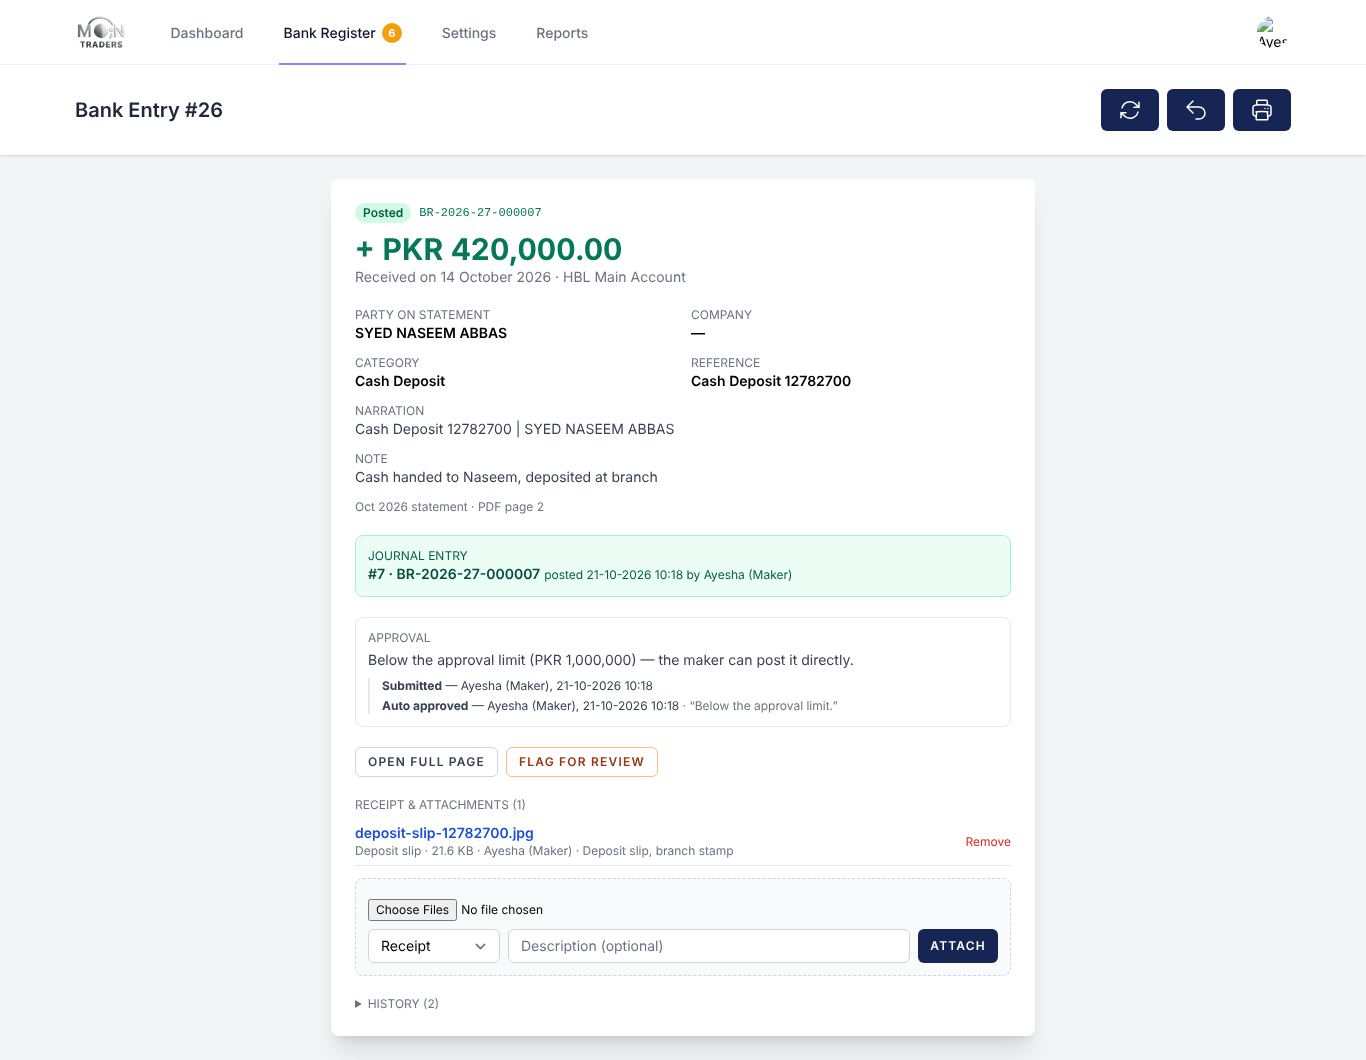
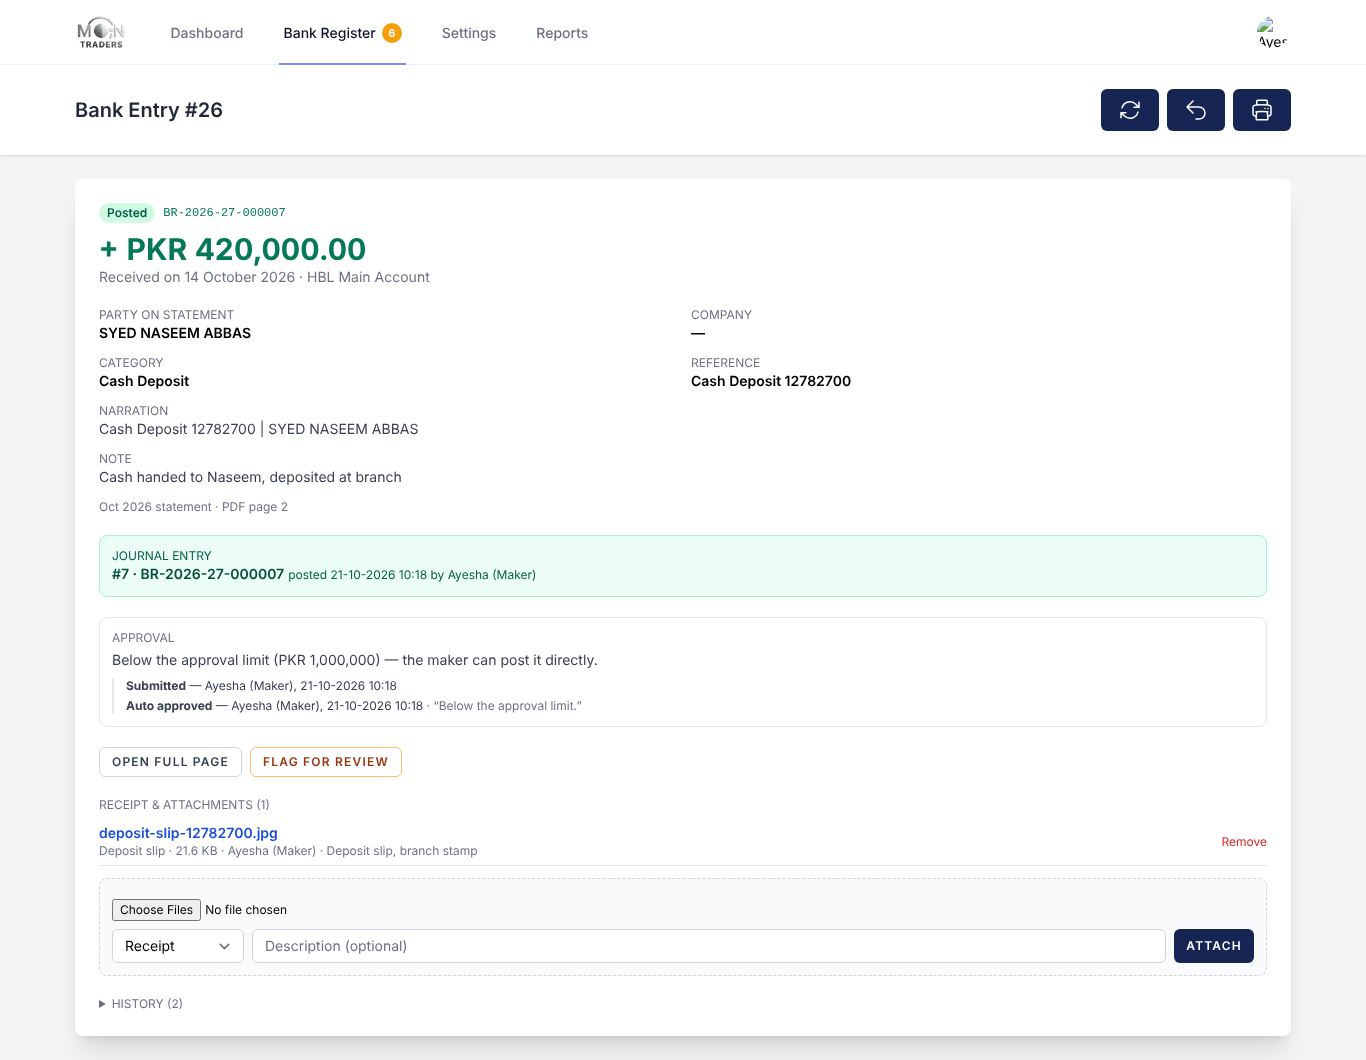
Bank Register: use max-w-7xl on every page and refresh screenshots
Claude-Session: https://claude.ai/code/session_01QTW2oYgXax1zGArLhvRqe5

diff --git a/resources/views/reports/bank/index.blade.php b/resources/views/reports/bank/index.blade.php
@@ -3,7 +3,7 @@
         <x-page-header title="Bank Register Reports" :showSearch="false" :showRefresh="false" backRoute="reports.index" />
     </x-slot>
     <div class="py-6">
-        <div class="max-w-5xl mx-auto sm:px-6 lg:px-8">
+        <div class="max-w-7xl mx-auto sm:px-6 lg:px-8">
             <div class="grid grid-cols-1 md:grid-cols-2 gap-4">
                 @forelse ($reports as $slug => $report)
                     <a href="{{ route('reports.bank.show', $slug) }}" class="block bg-white rounded-lg shadow hover:shadow-lg hover:-translate-y-0.5 transition p-4">

diff --git a/resources/views/bank-statement-entries/edit.blade.php b/resources/views/bank-statement-entries/edit.blade.php
@@ -3,7 +3,7 @@
         <x-page-header title="Classify Bank Entry #{{ $entry->id }}" :showSearch="false" :showRefresh="false" backRoute="bank-statement-entries.index" />
     </x-slot>
     <div class="py-6">
-        <div class="max-w-3xl mx-auto sm:px-6 lg:px-8">
+        <div class="max-w-7xl mx-auto sm:px-6 lg:px-8">
             <x-status-message class="mb-4" />
             <div class="bg-white overflow-hidden shadow-xl sm:rounded-lg p-6">
                 <x-validation-errors class="mb-4" />

diff --git a/resources/views/bank-reconciliations/create.blade.php b/resources/views/bank-reconciliations/create.blade.php
@@ -3,7 +3,7 @@
         <x-page-header title="Start Bank Reconciliation" :showSearch="false" :showRefresh="false" backRoute="bank-reconciliations.index" />
     </x-slot>
     <div class="py-6">
-        <div class="max-w-3xl mx-auto sm:px-6 lg:px-8">
+        <div class="max-w-7xl mx-auto sm:px-6 lg:px-8">
             <x-status-message class="mb-4" />
             <div class="bg-white overflow-hidden shadow-xl sm:rounded-lg p-6">
                 <x-validation-errors class="mb-4" />

diff --git a/resources/views/bank-statement-entries/show.blade.php b/resources/views/bank-statement-entries/show.blade.php
@@ -3,7 +3,7 @@
         <x-page-header title="Bank Entry #{{ $entry->id }}" :showSearch="false" :showRefresh="true" backRoute="bank-statement-entries.index" />
     </x-slot>
     <div class="py-6">
-        <div class="max-w-3xl mx-auto sm:px-6 lg:px-8">
+        <div class="max-w-7xl mx-auto sm:px-6 lg:px-8">
             <x-status-message class="mb-4" />
             <div class="bg-white shadow-xl sm:rounded-lg">
                 @include('bank-statement-entries.partials.detail')

diff --git a/resources/views/bank-entry-categories/edit.blade.php b/resources/views/bank-entry-categories/edit.blade.php
@@ -3,7 +3,7 @@
         <x-page-header title="Edit Entry Category" :showSearch="false" :showRefresh="false" backRoute="bank-entry-categories.index" />
     </x-slot>
     <div class="py-6">
-        <div class="max-w-4xl mx-auto sm:px-6 lg:px-8">
+        <div class="max-w-7xl mx-auto sm:px-6 lg:px-8">
             <x-status-message class="mb-4" />
             <div class="bg-white overflow-hidden shadow-xl sm:rounded-lg p-6">
                 <x-validation-errors class="mb-4" />

diff --git a/resources/views/bank-entry-categories/create.blade.php b/resources/views/bank-entry-categories/create.blade.php
@@ -3,7 +3,7 @@
         <x-page-header title="New Entry Category" :showSearch="false" :showRefresh="false" backRoute="bank-entry-categories.index" />
     </x-slot>
     <div class="py-6">
-        <div class="max-w-4xl mx-auto sm:px-6 lg:px-8">
+        <div class="max-w-7xl mx-auto sm:px-6 lg:px-8">
             <x-status-message class="mb-4" />
             <div class="bg-white overflow-hidden shadow-xl sm:rounded-lg p-6">
                 <x-validation-errors class="mb-4" />

diff --git a/resources/views/bank-entry-rules/edit.blade.php b/resources/views/bank-entry-rules/edit.blade.php
@@ -3,7 +3,7 @@
         <x-page-header title="Edit Auto-classify Rule" :showSearch="false" :showRefresh="false" backRoute="bank-entry-rules.index" />
     </x-slot>
     <div class="py-6">
-        <div class="max-w-4xl mx-auto sm:px-6 lg:px-8">
+        <div class="max-w-7xl mx-auto sm:px-6 lg:px-8">
             <x-status-message class="mb-4" />
             <div class="bg-white overflow-hidden shadow-xl sm:rounded-lg p-6">
                 <x-validation-errors class="mb-4" />

diff --git a/resources/views/bank-entry-rules/create.blade.php b/resources/views/bank-entry-rules/create.blade.php
@@ -3,7 +3,7 @@
         <x-page-header title="New Auto-classify Rule" :showSearch="false" :showRefresh="false" backRoute="bank-entry-rules.index" />
     </x-slot>
     <div class="py-6">
-        <div class="max-w-4xl mx-auto sm:px-6 lg:px-8">
+        <div class="max-w-7xl mx-auto sm:px-6 lg:px-8">
             <x-status-message class="mb-4" />
             <div class="bg-white overflow-hidden shadow-xl sm:rounded-lg p-6">
                 <x-validation-errors class="mb-4" />

diff --git a/resources/views/bank-party-aliases/edit.blade.php b/resources/views/bank-party-aliases/edit.blade.php
@@ -3,7 +3,7 @@
         <x-page-header title="Edit Party Alias" :showSearch="false" :showRefresh="false" backRoute="bank-party-aliases.index" />
     </x-slot>
     <div class="py-6">
-        <div class="max-w-4xl mx-auto sm:px-6 lg:px-8">
+        <div class="max-w-7xl mx-auto sm:px-6 lg:px-8">
             <x-status-message class="mb-4" />
             <div class="bg-white overflow-hidden shadow-xl sm:rounded-lg p-6">
                 <x-validation-errors class="mb-4" />

diff --git a/resources/views/bank-party-aliases/create.blade.php b/resources/views/bank-party-aliases/create.blade.php
@@ -3,7 +3,7 @@
         <x-page-header title="New Party Alias" :showSearch="false" :showRefresh="false" backRoute="bank-party-aliases.index" />
     </x-slot>
     <div class="py-6">
-        <div class="max-w-4xl mx-auto sm:px-6 lg:px-8">
+        <div class="max-w-7xl mx-auto sm:px-6 lg:px-8">
             <x-status-message class="mb-4" />
             <div class="bg-white overflow-hidden shadow-xl sm:rounded-lg p-6">
                 <x-validation-errors class="mb-4" />

diff --git a/resources/views/bank-cheques/edit.blade.php b/resources/views/bank-cheques/edit.blade.php
@@ -3,7 +3,7 @@
         <x-page-header title="Edit Cheque" :showSearch="false" :showRefresh="false" backRoute="bank-cheques.index" />
     </x-slot>
     <div class="py-6">
-        <div class="max-w-4xl mx-auto sm:px-6 lg:px-8">
+        <div class="max-w-7xl mx-auto sm:px-6 lg:px-8">
             <x-status-message class="mb-4" />
             <div class="bg-white overflow-hidden shadow-xl sm:rounded-lg p-6">
                 <x-validation-errors class="mb-4" />

diff --git a/resources/views/bank-cheques/create.blade.php b/resources/views/bank-cheques/create.blade.php
@@ -3,7 +3,7 @@
         <x-page-header title="New Cheque" :showSearch="false" :showRefresh="false" backRoute="bank-cheques.index" />
     </x-slot>
     <div class="py-6">
-        <div class="max-w-4xl mx-auto sm:px-6 lg:px-8">
+        <div class="max-w-7xl mx-auto sm:px-6 lg:px-8">
             <x-status-message class="mb-4" />
             <div class="bg-white overflow-hidden shadow-xl sm:rounded-lg p-6">
                 <x-validation-errors class="mb-4" />
